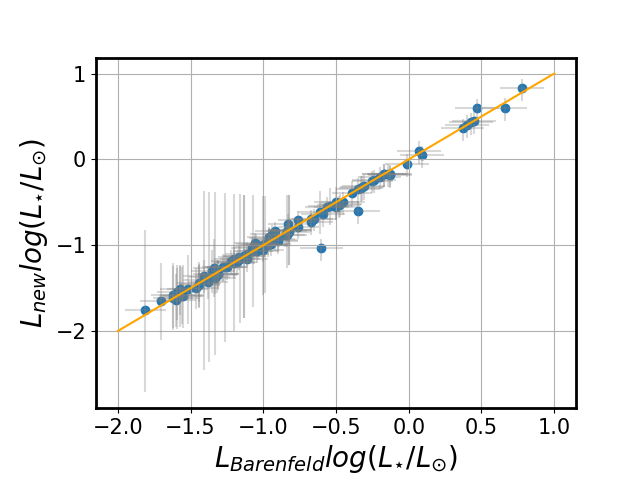
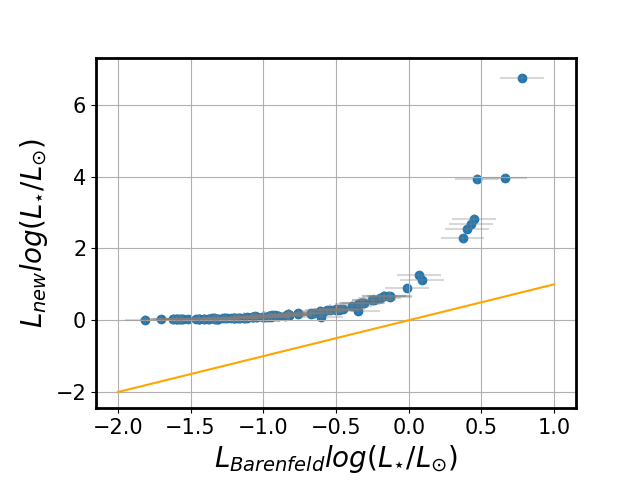
Updates
Updated luminosity error values

diff --git a/Parallaxes.py b/Parallaxes.py
@@ -1,7 +1,6 @@
 from data_file import luminosity_list_barenfeld, luminosity_list_barenfeld_error, temperature_list_barenfeld,\
     temperature_list_barenfeld_error, temperature_feiden, mass_feiden, source_list_garrett, source_list_barenfeld_2016
 
-from statistics import mean
 from scipy.interpolate import interp1d
 import numpy as np
 import matplotlib.pyplot as plt
@@ -12,6 +11,7 @@ plt.setp(ax.spines.values(), linewidth=2)
 
 #avoid axis labels being cut
 plt.gcf().subplots_adjust(bottom=0.15, left=0.15)
+
 
 #import values for all sources into a table
 value_single_source = []
@@ -62,12 +62,9 @@ parallax_106 = ['6.896551724' if item == 'null' else item for item in parallax_1
 parallax_error_106 = ['0.83594566' if item == 'null' else item for item in parallax_error_106]
 for index_ruwe, element_ruwe in enumerate(ruwe_list):
     if float(element_ruwe) > 1.6:
-        print(sources_106[index_ruwe])
-        print(element_ruwe)
         parallax_106[index_ruwe] = '6.896551724'
         parallax_error_106[index_ruwe] = '0.83594566'
 
-print(parallax_106[sources_106.index('J16020287-2236139')])
 #change elements to floats
 parallax_106 = [float(x) for x in parallax_106]
 parallax_error_106 = [float(x) for x in parallax_error_106]
@@ -82,6 +79,7 @@ for x in range(len(parallax_106)):
     distances_lower_error_106.append((1 / (parallax_106[x] + parallax_error_106[x])) * 1000 - distances_106[x])
 
 distances_lower_error_106 = [-20.0 if round(x, 2) == -15.68 else x for x in distances_lower_error_106]
+
 #update luminosity and the error
 luminosity_106 = []
 luminosity_error_106 = []
@@ -108,43 +106,51 @@ for index_source_garrett, element_source_garrett in enumerate(source_list_garret
             distances_updated_upper_sco.append(distances_106[index_source_barenfeld])
 
 
-def update_luminosity(old_luminosity_list, new_distance):
-    return (10**old_luminosity_list) * (new_distance**2) / (145**2)
-
-
-# create function for creating error in luminosity
-def update_luminosity_error(distance_new, new_distance_error, old_luminosity, old_luminosity_error):
-    return np.sqrt(((distance_new/145)**2 * old_luminosity_error)**2 + (old_luminosity/(145**2) * (2*distance_new) * new_distance_error)**2)
-
-
 luminosity_upper_error_106 = []
 luminosity_lower_error_106 = []
 luminosity_106 = [10**x for x in luminosity_106]
 
-# create list with luminoisties error NOT in log scale
-luminosity_upper_error = []
-luminosity_lower_error = []
+# update luminoisity with new distances
+def update_luminosity(old_luminosity, new_distance):
+    return old_luminosity * (new_distance**2) / (145**2)
 
-for x in range(106):
-    luminosity_upper_error.append(10**(luminosity_list_barenfeld[x] + luminosity_list_barenfeld_error[x]) - 10**luminosity_list_barenfeld[x])
-    luminosity_lower_error.append(10**(luminosity_list_barenfeld[x] - luminosity_list_barenfeld_error[x]) - 10**luminosity_list_barenfeld[x])
 
-for x in range(106):
-    luminosity_lower_error_106.append(update_luminosity_error(distances_106[x], distances_lower_error_106[x],
-                                                              luminosity_list_barenfeld[x], luminosity_lower_error[x]))
-    luminosity_upper_error_106.append(update_luminosity_error(distances_106[x], distances_upper_error_106[x],
-                                                              luminosity_list_barenfeld[x], luminosity_upper_error[x]))
+# update old error
+def update_old_luminosity_error(old_luminosity_error, old_luminosity):
+    return np.sqrt((old_luminosity_error**2) - (((2*old_luminosity/145) * 20) ** 2))
 
-luminosity_upper_error_1 = []
-luminosity_lower_error_1 = []
 
-#calculate in the error in log scale
-for x in range(106):
-    luminosity_upper_error_1.append(np.log10(luminosity_106[x] + luminosity_upper_error_106[x]) - np.log10(luminosity_106[x]))
-    luminosity_lower_error_1.append(np.log10(luminosity_106[x] + luminosity_lower_error_106[x]) - np.log10(luminosity_106[x]))
+# create function for creating error in luminosity
+def update_new_luminosity_error(distance_new, new_distance_error, old_luminosity, old_luminosity_error):
+    return np.sqrt(((distance_new/145)**2 * old_luminosity_error)**2 + (old_luminosity/(145**2) * (2*distance_new) * new_distance_error)**2)
 
-#get rid of log scale in updated luminosities values
-luminosity_106 = [np.log10(x) for x in luminosity_106]
+
+luminosity_list_barenfeld_error_NOT_log = []
+updated_luminosity_list_NOT_log = []
+luminosity_updated_old_error_NOT_log = []
+
+
+# calculate the luminosity NOT in log scale
+luminosity_list_barenfeld_NOT_log = [10**x for x in luminosity_list_barenfeld]
+
+
+for index, element in enumerate(luminosity_list_barenfeld_NOT_log):
+
+    # calculate new Barenfeld luminosity with new distances
+    updated_luminosity_list_NOT_log.append(update_luminosity(element, distances_106[index]))
+
+    # calculate Barenfeld luminosity error NOT in log scale
+    luminosity_list_barenfeld_error_NOT_log.append(10**(np.log10(element) + luminosity_list_barenfeld_error[index]) - element)
+    luminosity_updated_old_error_NOT_log.append(update_old_luminosity_error(luminosity_list_barenfeld_error_NOT_log[index], element))
+
+
+
+new_luminosity_error_log = []
+new_luminosity_error_NOT_log = []
+for index, element in enumerate(luminosity_list_barenfeld_NOT_log):
+    new_luminosity_error_NOT_log.append(update_new_luminosity_error(distances_106[index], distances_lower_error_106[index], element, luminosity_updated_old_error_NOT_log[index]))
+    new_luminosity_error_log.append(np.log10(new_luminosity_error_NOT_log[index] + luminosity_list_barenfeld_NOT_log[index]) - np.log10(luminosity_list_barenfeld_NOT_log[index]))
+
 
 #manipulate trasnparency errobars
 kwargs_errobar = {'alpha': 0.3}
@@ -156,7 +162,7 @@ y = [-2, 1]
 
 plt.scatter(luminosity_list_barenfeld, luminosity_106)
 plt.errorbar(luminosity_list_barenfeld, luminosity_106, xerr=luminosity_list_barenfeld_error, ls='none', c='gray', **kwargs_errobar)
-plt.errorbar(luminosity_list_barenfeld, luminosity_106, yerr=(luminosity_upper_error_1, luminosity_lower_error_1), ls='none', c='gray', **kwargs_errobar)
+plt.errorbar(luminosity_list_barenfeld, luminosity_106, yerr=(new_luminosity_error_log, new_luminosity_error_log), ls='none', c='gray', **kwargs_errobar)
 plt.xlabel('$L_{Barenfeld} log(L_{\star}/L_{\odot})$', fontsize=20), plt.ylabel('$L_{new} log(L_{\star}/L_{\odot})$', fontsize=20)
 plt.grid()
 
@@ -184,6 +190,3 @@ plt.grid()
 ax.tick_params(which='both', labelsize=15)
 plt.savefig('Mass 106 Feiden')
 plt.show()
-
-print(distances_106)
-print(luminosity_list_barenfeld)

diff --git a/Table_1.py b/Table_1.py
@@ -2,7 +2,7 @@ from data_file import temperature_list_barenfeld_error, temperature_list_barenfe
     source_list_barenfeld_2016, spectral_type_barenfeld, source_list_garrett
 from Interpolation import masses_new, masses_new_upper_error, masses_new_lower_error
 from Parallaxes import luminosity_106, distances_106, distances_upper_error_106, distances_lower_error_106, \
-    luminosity_upper_error_1, luminosity_lower_error_1
+    new_luminosity_error_log
 
 from tabulate import tabulate
 
@@ -13,16 +13,14 @@ def update_luminosity(old_luminosity_list, new_distance):
 
 table = []
 luminosity_list_patimo = []
-luminosity_list_patimo_upper_error = []
-luminosity_list_patimo_lower_error = []
 
 
 for x in range(len(source_list_barenfeld_2016)):
     table.append([source_list_barenfeld_2016[x], spectral_type_barenfeld[x], str(temperature_list_barenfeld[x]) + '\pm' +
                   str(temperature_list_barenfeld_error[x]), str(round(distances_106[x], 2)) + '(' +
                   str(round(distances_lower_error_106[x], 2)) + ',+' + str(round(distances_upper_error_106[x], 2)) + ')',
-                  str(round(luminosity_106[x], 3)) + '(' + str(round(luminosity_upper_error_1[x], 3)) + ',-' +
-                  str(round(luminosity_lower_error_1[x], 3)) + ')', str(round(masses_new[x], 2)) + '(' +
+                  str(round(luminosity_106[x], 3)) + '(' + str(round(new_luminosity_error_log[x], 3)) + ',-' +
+                  str(round(new_luminosity_error_log[x], 3)) + ')', str(round(masses_new[x], 2)) + '(' +
                   str(round(masses_new_upper_error[x], 2)) + ',-'
                   + str(round(masses_new_lower_error[x], 2)) + ')'])
 
